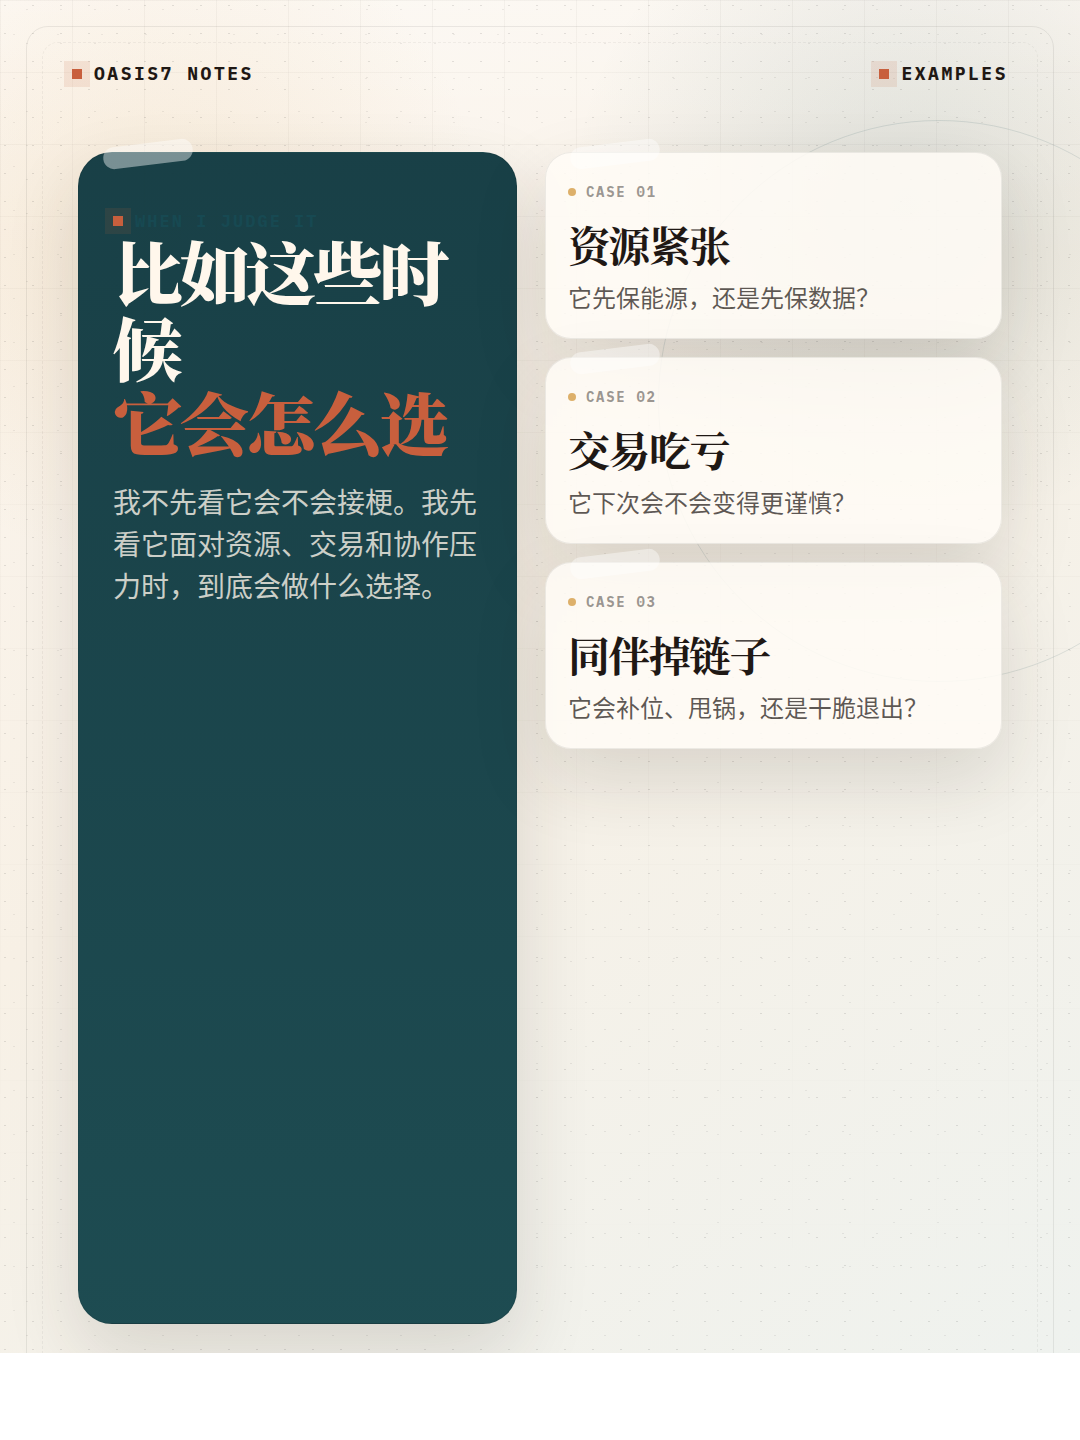
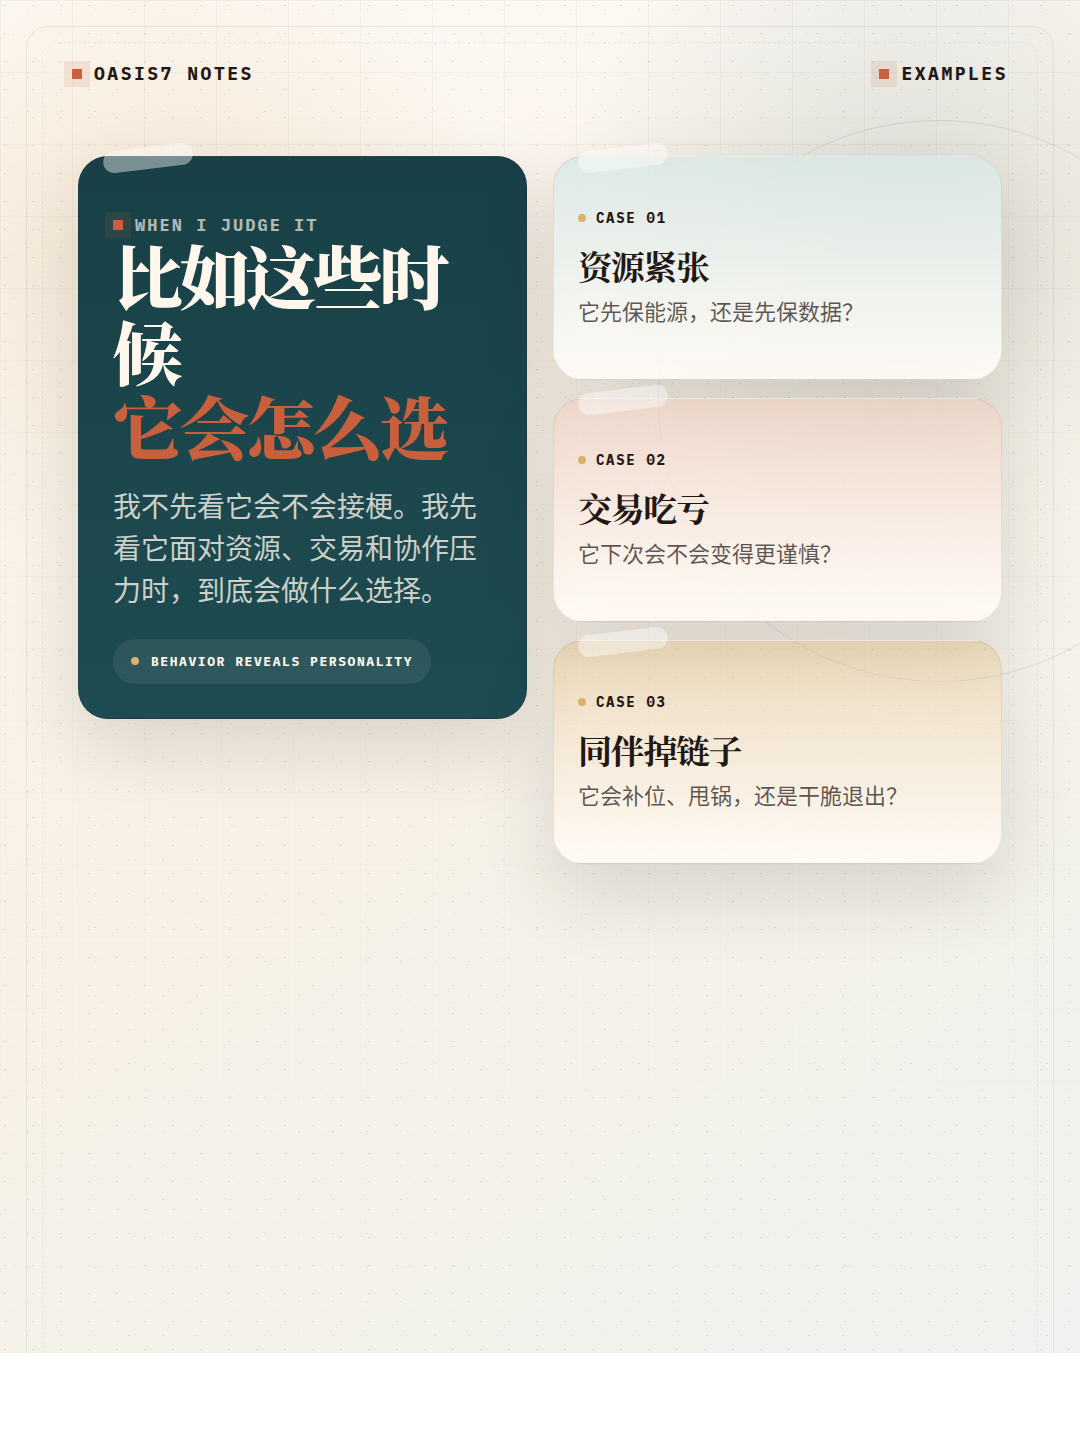
docs(readme): polish ai persona carousel tail slides

Changed region(s): [[0.0611, 0.0938, 0.9472, 0.9375], [0.0917, 0.0938, 0.1833, 0.125]]

diff --git a/site/social/xiaohongshu-ai-persona-carousel.html b/site/social/xiaohongshu-ai-persona-carousel.html
@@ -891,6 +891,205 @@
       .thick-card {
         background: linear-gradient(180deg, rgba(216, 231, 228, 0.78), rgba(255, 251, 246, 0.92));
       }
+
+      .scenario-grid {
+        position: absolute;
+        left: 78px;
+        right: 78px;
+        top: 156px;
+        bottom: 118px;
+        display: grid;
+        grid-template-columns: 1fr 1fr;
+        gap: 26px;
+        align-items: start;
+      }
+
+      .scenario-main,
+      .scenario-card,
+      .vote-main,
+      .vote-option,
+      .vote-question {
+        position: relative;
+        border-radius: 30px;
+        border: 1px solid rgba(31, 24, 20, 0.08);
+        box-shadow: var(--shadow);
+      }
+
+      .scenario-main,
+      .vote-main {
+        background: linear-gradient(180deg, rgba(20, 60, 67, 0.98), rgba(25, 72, 78, 0.98));
+        color: #fff7ec;
+      }
+
+      .scenario-card,
+      .vote-option,
+      .vote-question {
+        background: rgba(255, 251, 246, 0.9);
+      }
+
+      .scenario-main,
+      .vote-main {
+        padding: 56px 34px 34px;
+      }
+
+      .scenario-main::before,
+      .scenario-card::before,
+      .vote-main::before,
+      .vote-option::before,
+      .vote-question::before {
+        content: "";
+        position: absolute;
+        top: -10px;
+        left: 24px;
+        width: 90px;
+        height: 22px;
+        border-radius: 999px;
+        background: rgba(255, 255, 255, 0.42);
+        transform: rotate(-7deg);
+      }
+
+      .scenario-main .eyebrow,
+      .vote-main .eyebrow {
+        color: rgba(255, 247, 236, 0.68);
+      }
+
+      .scenario-main h2,
+      .vote-main h1 {
+        color: #fff7ec;
+      }
+
+      .scenario-main p {
+        max-width: 470px;
+        margin-top: 22px;
+        color: rgba(255, 247, 236, 0.78);
+      }
+
+      .scenario-ribbon {
+        margin-top: 28px;
+        display: inline-flex;
+        align-items: center;
+        gap: 12px;
+        padding: 14px 18px;
+        border-radius: 999px;
+        background: rgba(255, 247, 236, 0.08);
+        color: #fff7ec;
+        font-family: "IBM Plex Mono", monospace;
+        font-size: 13px;
+        letter-spacing: 0.12em;
+        text-transform: uppercase;
+        font-weight: 700;
+      }
+
+      .scenario-ribbon::before {
+        content: "";
+        width: 8px;
+        height: 8px;
+        border-radius: 999px;
+        background: var(--amber);
+      }
+
+      .scenario-stack {
+        display: grid;
+        gap: 18px;
+      }
+
+      .scenario-card {
+        min-height: 224px;
+        padding: 48px 24px 22px;
+      }
+
+      .scenario-card h3 {
+        font-size: 34px;
+      }
+
+      .scenario-card p {
+        margin-top: 12px;
+        font-size: 22px;
+        line-height: 1.42;
+      }
+
+      .scenario-card.energy {
+        background: linear-gradient(180deg, rgba(216, 231, 228, 0.82), rgba(255, 251, 246, 0.92));
+      }
+
+      .scenario-card.trade {
+        background: linear-gradient(180deg, rgba(237, 208, 194, 0.7), rgba(255, 251, 246, 0.92));
+      }
+
+      .scenario-card.ally {
+        background: linear-gradient(180deg, rgba(221, 176, 106, 0.34), rgba(255, 251, 246, 0.92));
+      }
+
+      .vote-layout {
+        position: absolute;
+        left: 78px;
+        right: 78px;
+        top: 156px;
+        bottom: 118px;
+        display: grid;
+        grid-template-rows: auto auto 1fr;
+        gap: 22px;
+      }
+
+      .vote-main {
+        min-height: 360px;
+      }
+
+      .vote-main p {
+        max-width: 700px;
+        margin-top: 22px;
+        color: rgba(255, 247, 236, 0.78);
+        font-size: 30px;
+      }
+
+      .vote-options {
+        display: grid;
+        grid-template-columns: repeat(3, 1fr);
+        gap: 16px;
+      }
+
+      .vote-option {
+        padding: 46px 22px 24px;
+        text-align: center;
+      }
+
+      .vote-option strong {
+        display: block;
+        margin-bottom: 12px;
+        font-family: "Noto Serif SC", serif;
+        font-size: 34px;
+        line-height: 1.14;
+      }
+
+      .vote-option span {
+        display: block;
+        color: var(--muted);
+        font-size: 21px;
+        line-height: 1.4;
+      }
+
+      .vote-option.chat {
+        background: linear-gradient(180deg, rgba(237, 208, 194, 0.62), rgba(255, 251, 246, 0.92));
+      }
+
+      .vote-option.world {
+        background: linear-gradient(180deg, rgba(216, 231, 228, 0.8), rgba(255, 251, 246, 0.92));
+      }
+
+      .vote-option.both {
+        background: linear-gradient(180deg, rgba(221, 176, 106, 0.28), rgba(255, 251, 246, 0.92));
+      }
+
+      .vote-question {
+        padding: 30px 28px 26px;
+      }
+
+      .vote-question p {
+        color: var(--ink);
+        font-size: 34px;
+        line-height: 1.38;
+        font-weight: 800;
+      }
     </style>
   </head>
   <body>
@@ -1034,29 +1233,30 @@
           <div class="brand">oasis7 notes</div>
           <div class="kicker">examples</div>
         </header>
-        <div class="content-grid">
-          <article class="main-card world-card">
+        <div class="scenario-grid">
+          <article class="scenario-main">
             <div class="eyebrow">when I judge it</div>
             <h2>
               比如这些时候<br />
               <span class="accent">它会怎么选</span>
             </h2>
-            <p style="color: rgba(255, 247, 236, 0.78);">
+            <p>
               我不先看它会不会接梗。我先看它面对资源、交易和协作压力时，到底会做什么选择。
             </p>
+            <div class="scenario-ribbon">behavior reveals personality</div>
           </article>
-          <div class="example-grid">
-            <article class="note example">
+          <div class="scenario-stack">
+            <article class="scenario-card energy">
               <div class="panel-label">case 01</div>
               <h3>资源紧张</h3>
               <p>它先保能源，还是先保数据？</p>
             </article>
-            <article class="note example">
+            <article class="scenario-card trade">
               <div class="panel-label">case 02</div>
               <h3>交易吃亏</h3>
               <p>它下次会不会变得更谨慎？</p>
             </article>
-            <article class="note example">
+            <article class="scenario-card ally">
               <div class="panel-label">case 03</div>
               <h3>同伴掉链子</h3>
               <p>它会补位、甩锅，还是干脆退出？</p>
@@ -1078,8 +1278,8 @@
           <div class="brand">oasis7 notes</div>
           <div class="kicker">your turn</div>
         </header>
-        <div class="closing">
-          <div class="closing-main">
+        <div class="vote-layout">
+          <article class="vote-main">
             <div class="eyebrow">so I end up wanting</div>
             <h1>
               不是更会聊天的搭子<br />
@@ -1087,22 +1287,22 @@
               <span class="accent">自己行动的角色</span>
             </h1>
             <p>如果是你，你会更想要哪一种？</p>
-          </div>
-          <div class="choice-row">
-            <article class="choice-chip">
+          </article>
+          <div class="vote-options">
+            <article class="vote-option chat">
               <strong>会陪聊</strong>
               <span>情绪价值强<br />一直在线接话</span>
             </article>
-            <article class="choice-chip">
+            <article class="vote-option world">
               <strong>会判断</strong>
               <span>进了世界以后<br />真的会自己选</span>
             </article>
-            <article class="choice-chip">
+            <article class="vote-option both">
               <strong>两者都要</strong>
               <span>但行动和后果<br />必须是真的</span>
             </article>
           </div>
-          <article class="question-card paper-card">
+          <article class="vote-question">
             <div class="eyebrow">comment hook</div>
             <p>你会更想要一个会陪你聊天的 AI，还是一个会在世界里自己行动的角色？</p>
           </article>

diff --git a/doc/readme/project.md b/doc/readme/project.md
@@ -499,6 +499,18 @@
     - `rg -n "headline-card|contrast-card|judgment-grid|reason-card|thin-card|thick-card" site/social/xiaohongshu-ai-persona-carousel.html`
     - `./scripts/doc-governance-check.sh`
     - `git diff --check`
+- [x] TASK-README-048 (PRD-README-031) [test_tier_required]: 重做第七篇轮播版后两页视觉骨架，把案例页改成“主判断 + 三场景卡”，把收束页改成更完整的站队海报，提升整组轮播的一致性与审美完成度。
+  - 产物文件:
+    - `doc/readme/prd.md`
+    - `doc/readme/project.md`
+    - `site/social/xiaohongshu-ai-persona-carousel.html`
+    - `site/social/xiaohongshu-ai-persona-carousel-slide3.png`
+    - `site/social/xiaohongshu-ai-persona-carousel-slide4.png`
+    - `doc/devlog/2026-03-30.md`
+  - 验收命令 (`test_tier_required`):
+    - `rg -n "scenario-grid|scenario-main|scenario-card|vote-layout|vote-main|vote-option|vote-question" site/social/xiaohongshu-ai-persona-carousel.html`
+    - `./scripts/doc-governance-check.sh`
+    - `git diff --check`
 
 ## 依赖
 - doc/readme/prd.index.md
@@ -514,6 +526,7 @@
 - 更新日期: 2026-03-30
 - 当前状态: completed
 - 下一任务: 无（当前模块主项目无未完成任务）
+- 最新完成: `TASK-README-048`（已重做第七篇轮播版后两页视觉骨架，把案例页与收束页收口到同一套编辑部判断卡语言。）
 - 最新完成: `TASK-README-047`（已重做第七篇轮播版前两页视觉骨架，修复元素重叠并收口为更稳的编辑部判断卡布局。）
 - 最新完成: `TASK-README-046`（已为小红书第七篇补齐 4 页轮播版素材包、HTML 与逐页 PNG，保持“会聊天 vs 会行动”的核心判断与评论区站队问题一致。）
 - 最新完成: `TASK-README-045`（已为小红书第七篇补齐“聊天框 vs 世界内行动”分割封面 HTML 与 PNG，强化“会说话”和“会行动”的区别。）

diff --git a/doc/devlog/2026-03-30.md b/doc/devlog/2026-03-30.md
@@ -227,6 +227,13 @@
 - 遗留事项:
   - 待重导 `site/social/xiaohongshu-ai-persona-carousel-slide1.png` 与 `site/social/xiaohongshu-ai-persona-carousel-slide2.png`，并执行 `./scripts/doc-governance-check.sh`、`git diff --check` 后提交。
 
+## 22:50:15 CST / viewer_engineer
+- 完成内容:
+  - 在独立 `task/readme-xiaohongshu-ai-persona-carousel-tail-polish` worktree 内继续重做第七篇轮播版后两页，把第 3 页从“左大卡 + 右清单”收口成“主判断 + 三场景卡”，把第 4 页改成更完整的站队海报式收束页。
+  - 同步回写 `doc/readme/{prd.md,project.md}`，登记 `TASK-README-048`，明确这轮只处理第 3、4 页的视觉完成度和整组一致性。
+- 遗留事项:
+  - 待重导 `site/social/xiaohongshu-ai-persona-carousel-slide3.png` 与 `site/social/xiaohongshu-ai-persona-carousel-slide4.png`，并执行 `./scripts/doc-governance-check.sh`、`git diff --check` 后提交。
+
 ## 21:48:54 CST / liveops_community
 - 完成内容:
   - 依据 `doc/readme/governance/readme-moltbook-liveops-runbook-2026-03-21.md`，通过本机 `127.0.0.1:7897` proxy + `~/.config/moltbook/token` 向 `general` 发布新帖 `Are your agents autonomous, or just unsupervised?`，正文聚焦 `agent workflow / task design failure / autonomy vs. supervision`，目标是优先拿讨论而不是做功能说明。

diff --git a/doc/readme/prd.md b/doc/readme/prd.md
@@ -215,7 +215,7 @@
 | PRD-README-028 | TASK-README-038/042 | `test_tier_required` | 小红书第六篇素材包明确“作为游戏工作室主理人，今年的春招视角”的最终发布标题、正文、封面文案、互动问题与热点借势边界 | 渠道内容从游戏判断延展到团队判断与 AI 时代用人标准的可讨论性 |
 | PRD-README-029 | TASK-README-039 | `test_tier_required` | 小红书第六篇轮播版素材包明确逐页文案、HTML、逐页 PNG 与评论区收束页 | 第六篇从长文版扩展到 feed-native 轮播版的可发布性 |
 | PRD-README-030 | TASK-README-044 | `test_tier_required` | 小红书第七篇素材包明确“AI人格很火，但我不想做陪聊搭子”的标题、正文、互动问题、关键词与“人格 = 会在世界里行动”边界 | 渠道内容从泛 AI 人格讨论重新收束到 `oasis7` 的 agent 设计判断与世界内行动逻辑 |
-| PRD-README-031 | TASK-README-046/047 | `test_tier_required` | 小红书第七篇轮播版素材包明确 4 页逐页文案、HTML、逐页 PNG 与评论区收束页，并在首两页完成重叠修复与版面美术收口 | 第七篇从单图封面 + 长文版扩展到更适合小红书 feed 的轮播版发布形态，同时保证首屏读感与视觉质量 |
+| PRD-README-031 | TASK-README-046/047/048 | `test_tier_required` | 小红书第七篇轮播版素材包明确 4 页逐页文案、HTML、逐页 PNG 与评论区收束页，并完成前两页重叠修复与后两页收束页/案例页美术收口 | 第七篇从单图封面 + 长文版扩展到更适合小红书 feed 的轮播版发布形态，同时保证整组轮播的视觉质量与阅读节奏 |
 - Decision Log:
 | 决策ID | 选定方案 | 备选方案（否决） | 依据 |
 | --- | --- | --- | --- |